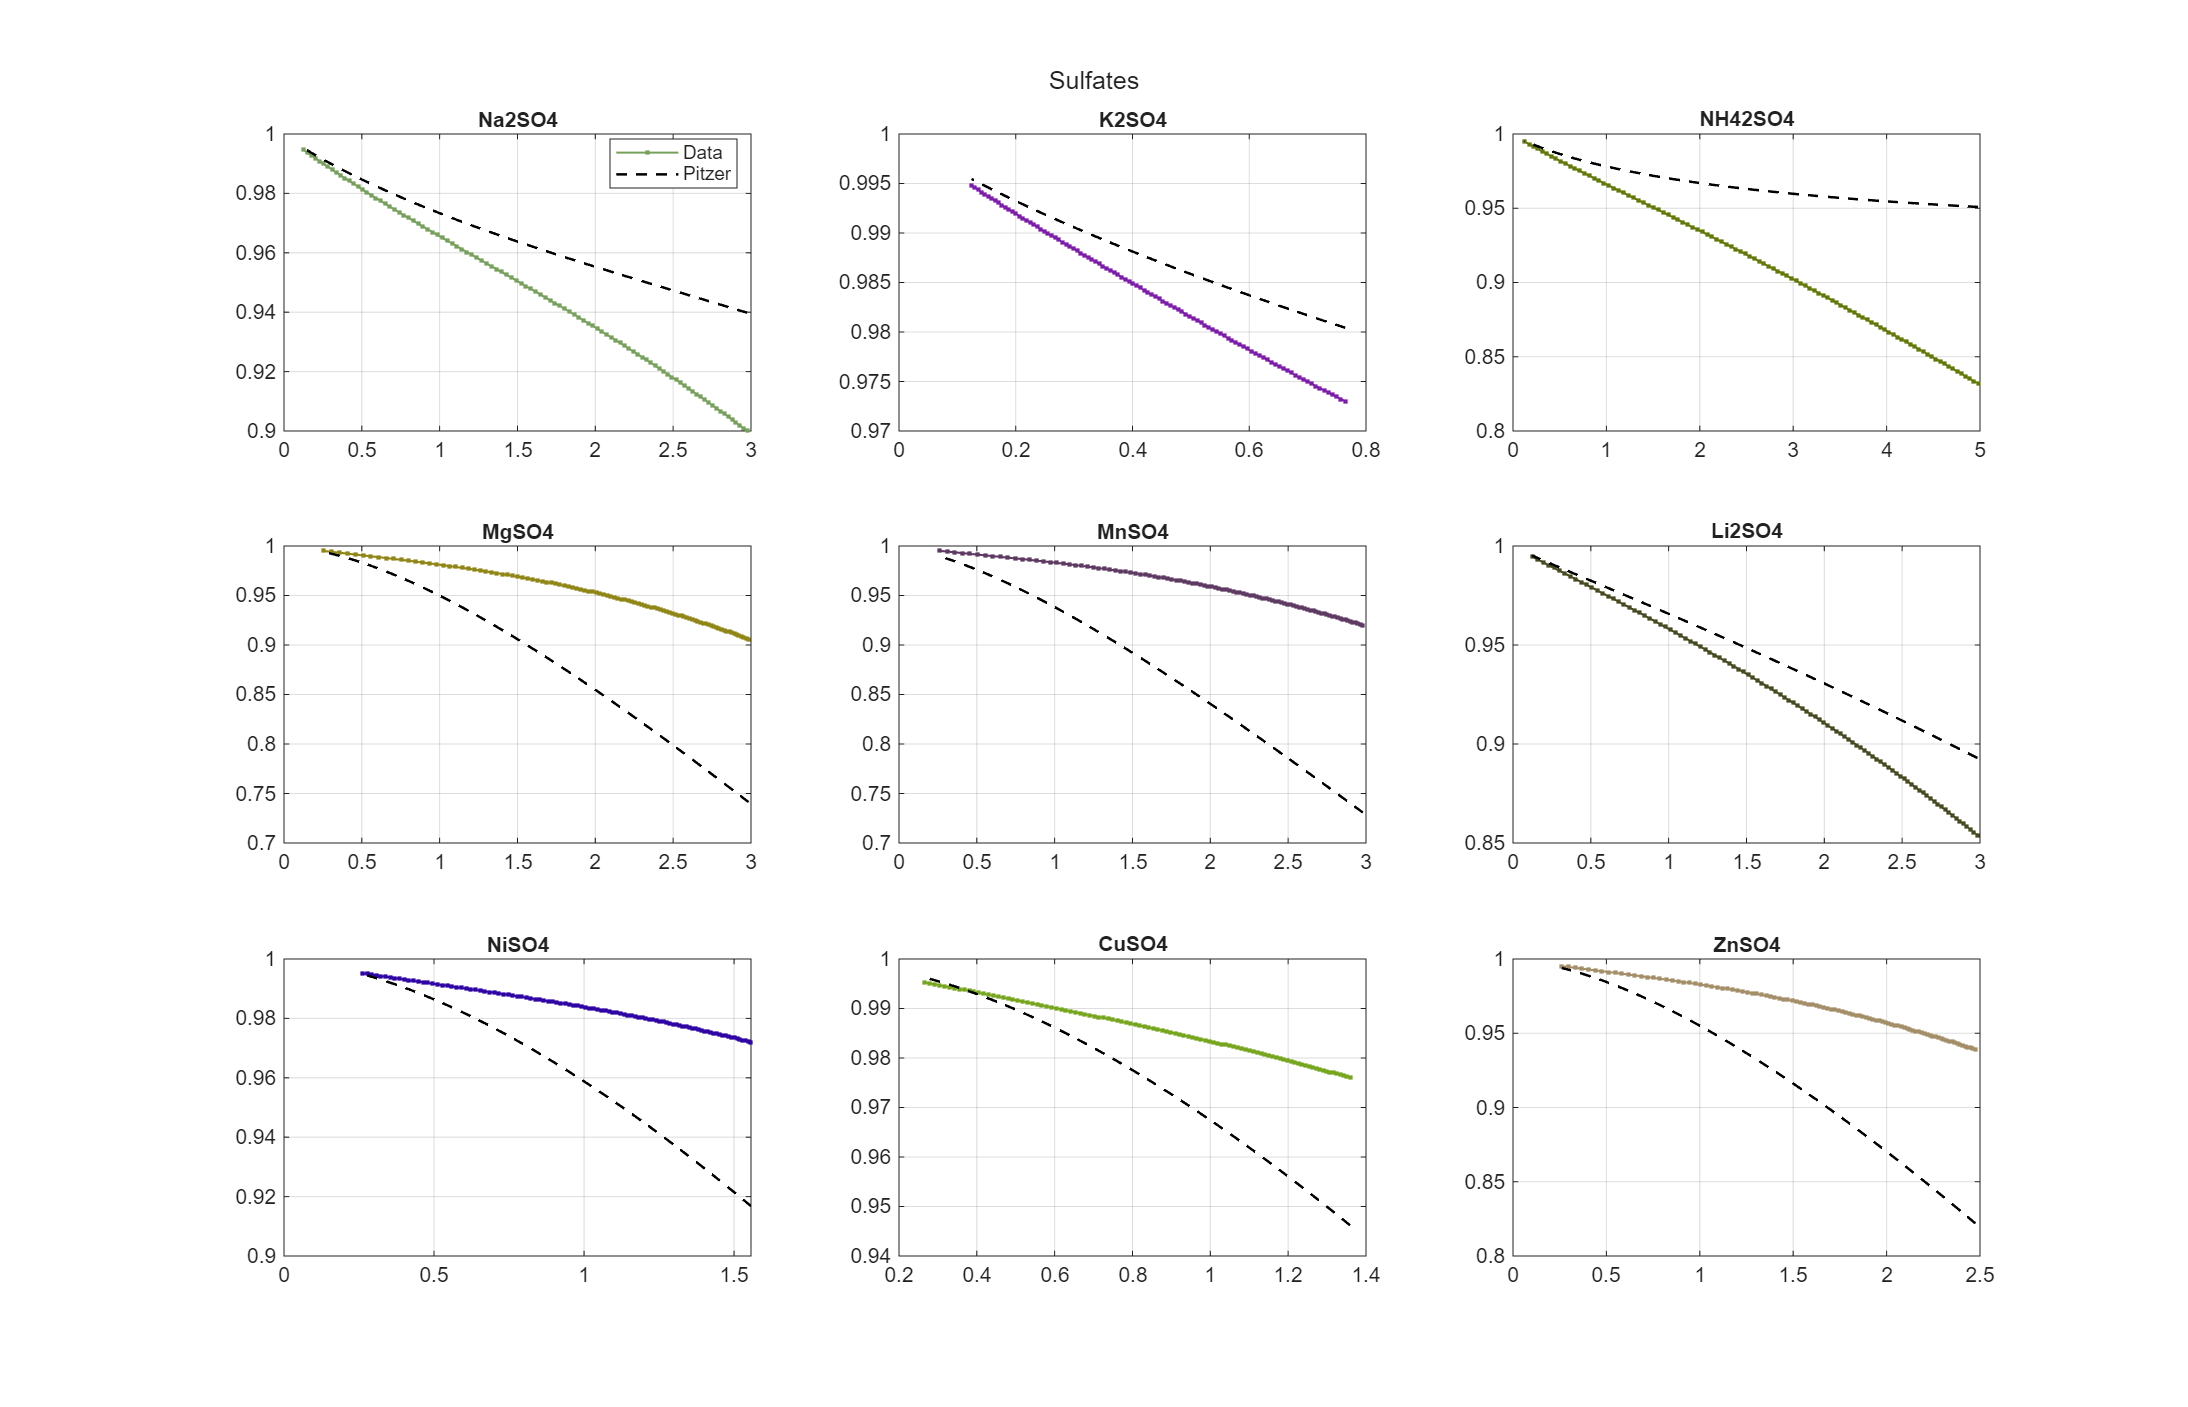
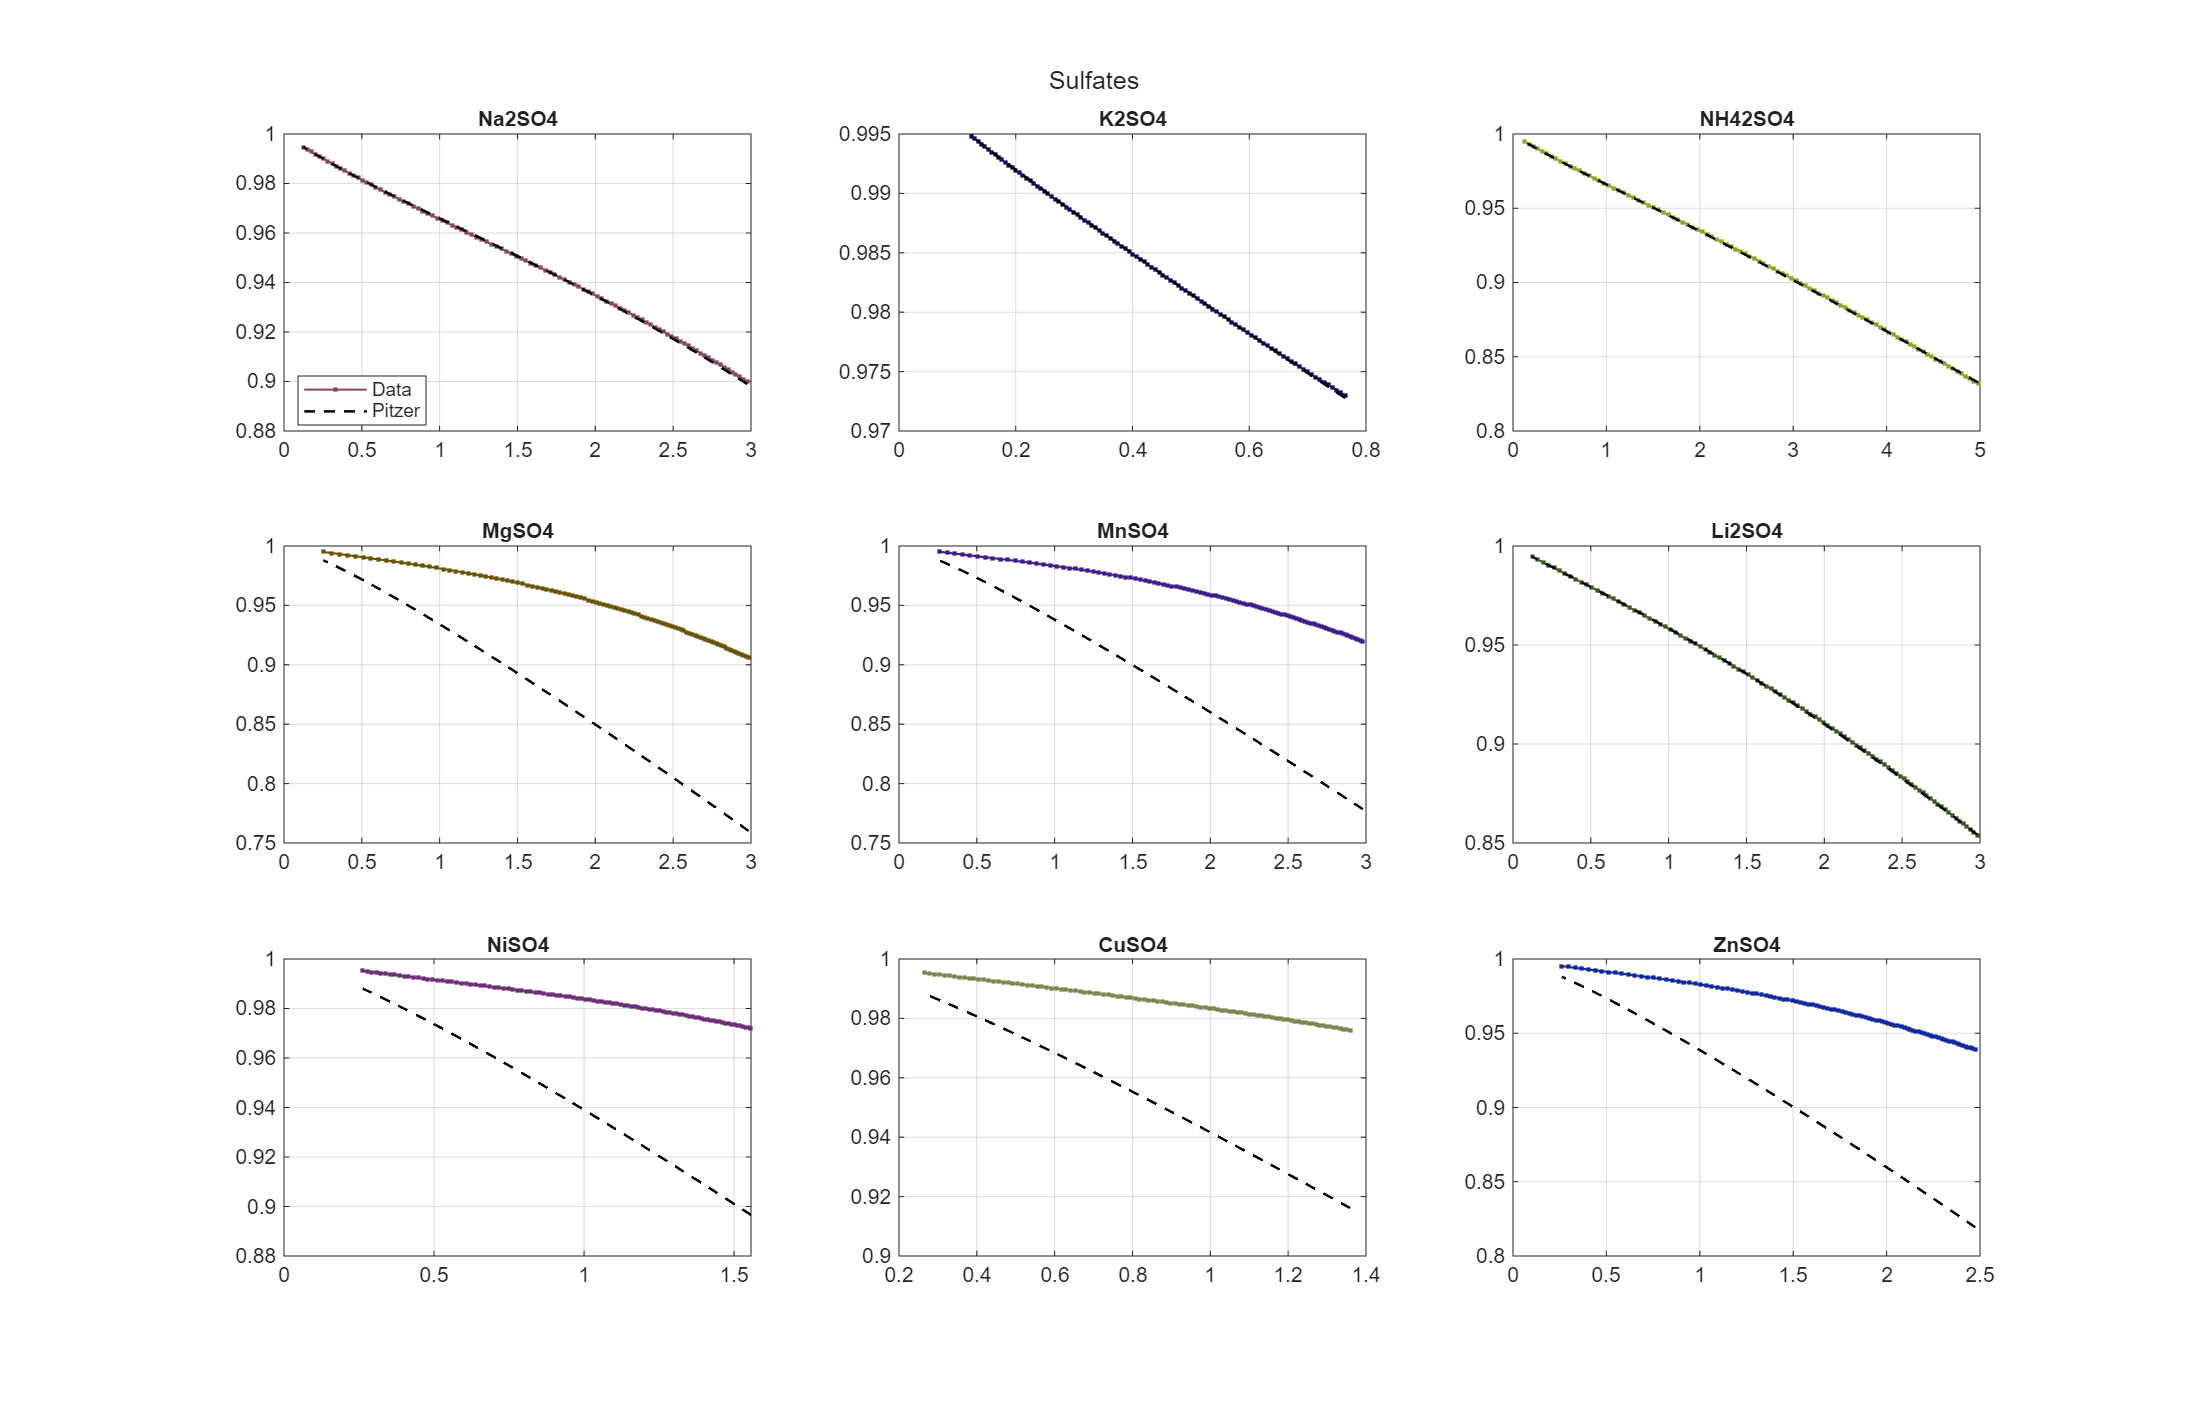
fix Pitzer plotting

diff --git a/pitzer/pitzer_water_activity.m b/pitzer/pitzer_water_activity.m
@@ -1,127 +1,213 @@
 function aw = pitzer_water_activity(m, nu, beta0, beta1, beta2, Cphi, alpha1, alpha2, T)
-% PITZER_WATER_ACTIVITY Calculate water activity using Pitzer model
-%
-% Inputs:
-%   m       - molality (mol salt/kg water)
-%   nu      - number of ions (2 for 1:1, 3 for 2:1, etc.)
-%   beta0   - Pitzer parameter beta0
-%   beta1   - Pitzer parameter beta1
-%   beta2   - Pitzer parameter beta2 (use 0 for 1:1 electrolytes)
-%   Cphi    - Pitzer parameter Cphi
-%   alpha1  - Pitzer parameter alpha1 (typically 2.0)
-%   alpha2  - Pitzer parameter alpha2 (typically 12.0 for 2:1, 0 for 1:1)
-%   T       - Temperature in Celsius
-%
-% Output:
-%   aw      - water activity
-%
-% Reference: Pitzer, K.S. (1973). "Thermodynamics of electrolytes. I. 
-%            Theoretical basis and general equations." 
-%            J. Phys. Chem., 77(2), 268-277.
-%
-% The Pitzer model relates water activity to the osmotic coefficient:
-%   ln(aw) = -phi * nu * m * Mw
-% where Mw = 0.018015 kg/mol (molecular weight of water)
+% PITZER_WATER_ACTIVITY Calculate water activity using corrected Pitzer model
+% Reference: Pitzer (1973), Eq. 13 for Osmotic Coefficient
 
-if nargin < 9
-    error('All 9 input arguments are required')
+    if nargin < 9, error('All 9 input arguments are required'); end
+
+    % --- 1. Constants & Pre-calculations ---
+    Mw = 0.018015; % kg/mol
+    b  = 1.2;      % Standard Pitzer parameter
+    
+    % Ionic Strength (I)
+    % Assuming simple single salt M(vM)X(vX)
+    % 1:1 salt (NaCl) -> I = m
+    % 2:1 salt (MgCl2)-> I = 3m
+    % We approximate I using your input 'nu':
+    if nu == 2      % 1:1
+        I = m;
+        vM = 1; vX = 1;
+        zM = 1; zX = 1;
+    elseif nu == 3  % 2:1 or 1:2
+        I = 3 * m;
+        vM = 1; vX = 2; % Assuming M X2 type generally
+        zM = 2; zX = 1;
+    else            % Fallback (approx)
+        I = 0.5 * nu * m; 
+        vM = 1; vX = 1; zM = 1; zX = 1; 
+    end
+
+    sqrt_I = sqrt(I);
+    A_phi = debye_huckel_parameter(T);
+
+    % --- 2. Debye-Huckel Term (Osmotic) ---
+    % CORRECTED: This is f_phi, NOT f_gamma. No log term.
+    term_DH = -A_phi * (sqrt_I / (1 + b * sqrt_I));
+    
+    % --- 3. Second Virial Coefficient (B_phi) ---
+    % Formula: Beta0 + Beta1 * exp(-alpha1 * sqrt(I)) ...
+    exp1 = exp(-alpha1 * sqrt_I);
+    B_phi = beta0 + beta1 * exp1;
+    
+    if abs(beta2) > 1e-9 || alpha2 > 1e-9
+        exp2 = exp(-alpha2 * sqrt_I);
+        B_phi = B_phi + beta2 * exp2;
+    end
+
+    % --- 4. Stoichiometric Multipliers ---
+    % The Pitzer equation for Phi is:
+    % Phi - 1 = |zM*zX| * f_phi 
+    %           + m * (2*vM*vX/nu) * B_phi 
+    %           + m^2 * (2*(vM*vX)^1.5/nu) * C_phi
+    
+    % Charge factor for DH term
+    z_factor = abs(zM * zX); 
+    
+    % Factor for B term: (2 * vM * vX) / nu
+    % 1:1 -> 2*1*1 / 2 = 1
+    % 2:1 -> 2*1*2 / 3 = 1.333
+    factor_B = (2 * vM * vX) / nu;
+    
+    % Factor for C term: (2 * (vM*vX)^1.5) / nu
+    % 1:1 -> 2 * 1 / 2 = 1
+    % 2:1 -> 2 * (2)^1.5 / 3 = 1.885
+    factor_C = (2 * (vM * vX)^1.5) / nu;
+
+    % --- 5. Calculate Osmotic Coefficient (Phi) ---
+    phi = 1 + z_factor * term_DH + m * factor_B * B_phi + m^2 * factor_C * Cphi;
+    
+    % --- 6. Calculate Water Activity ---
+    % ln(aw) = -phi * nu * m * Mw
+    ln_aw = -phi * nu * m * Mw;
+    aw = exp(ln_aw);
+    
+    % Physical Bounds
+    aw = max(0, min(1, aw));
 end
-
-% Constants
-Mw = 0.018015; % kg/mol - molecular weight of water
-T_K = T + 273.15; % Convert to Kelvin
-
-% Debye-Hückel limiting slope (Aphi)
-% Temperature-dependent formula (valid for water at different temperatures)
-% At 25°C, Aphi ≈ 0.392
-A_phi = debye_huckel_parameter(T);
-
-% Ionic strength
-I = 0.5 * nu * m; % For simple salts like MX or MX2
-
-% Calculate ionic charge product
-% For MX (1:1): z_M = 1, z_X = 1, |z_M*z_X| = 1
-% For MX2 (2:1): z_M = 2, z_X = 1, |z_M*z_X| = 2
-if nu == 2
-    z_product = 1; % 1:1 electrolyte
-elseif nu == 3
-    z_product = 2; % 2:1 or 1:2 electrolyte
-else
-    z_product = 1; % Default
-end
-
-% Calculate b parameter (typically 1.2 kg^0.5/mol^0.5)
-b = 1.2;
-
-% Calculate f(I) - Debye-Hückel term
-sqrt_I = sqrt(I);
-f_gamma = -A_phi * (sqrt_I / (1 + b * sqrt_I) + (2/b) * log(1 + b * sqrt_I));
-
-% Calculate B_phi and B'_phi
-% For 1:1 electrolytes (alpha2 = 0, beta2 = 0)
-% For 2:1 electrolytes (use both terms)
-
-if alpha2 == 0 % 1:1 electrolyte
-    g_alpha1 = 2 * (1 - (1 + alpha1 * sqrt_I) * exp(-alpha1 * sqrt_I)) / (alpha1^2 * I);
-    B_phi = beta0 + beta1 * g_alpha1;
-else % 2:1 electrolyte
-    g_alpha1 = 2 * (1 - (1 + alpha1 * sqrt_I) * exp(-alpha1 * sqrt_I)) / (alpha1^2 * I);
-    g_alpha2 = 2 * (1 - (1 + alpha2 * sqrt_I) * exp(-alpha2 * sqrt_I)) / (alpha2^2 * I);
-    B_phi = beta0 + beta1 * g_alpha1 + beta2 * g_alpha2;
-end
-
-% Calculate osmotic coefficient
-% phi = 1 + f_gamma + m * B_phi + m^2 * C_phi
-% For mixed electrolytes, additional terms would be needed
-
-phi = 1 + f_gamma + m * B_phi + m^2 * Cphi;
-
-% Handle negative or extremely small osmotic coefficients
-if phi < 0.01
-    phi = 0.01;
-    warning('Osmotic coefficient calculated as negative or very small. Setting to 0.01')
-end
-
-% Calculate water activity
-% ln(aw) = -phi * nu * m * Mw
-ln_aw = -phi * nu * m * Mw;
-aw = exp(ln_aw);
-
-% Ensure water activity is physical (between 0 and 1)
-if aw > 1
-    aw = 1;
-elseif aw < 0
-    aw = 0;
-end
-
-end
-
 
 function A_phi = debye_huckel_parameter(T)
-% Calculate Debye-Hückel parameter A_phi as a function of temperature
-% for water as solvent
-%
-% Input:
-%   T - Temperature in Celsius
-%
-% Output:
-%   A_phi - Debye-Hückel limiting slope
-%
-% Reference: Archer & Wang (1990) and Pitzer (1991)
-
-T_K = T + 273.15; % Convert to Kelvin
-
-% Simplified temperature-dependent formula
-% At 25°C (298.15 K): A_phi ≈ 0.392
-% At 0°C (273.15 K): A_phi ≈ 0.377
-% At 100°C (373.15 K): A_phi ≈ 0.465
-
-% Linear approximation (good for 0-100°C range)
-% More accurate formula would use density and dielectric constant of water
-T_ref = 298.15; % Reference temperature (25°C)
-A_phi_ref = 0.392; % Value at 25°C
-
-% Temperature dependence (simplified)
-A_phi = A_phi_ref * (1 + 0.0018 * (T_K - T_ref));
-
+    % A_phi approx at 25C is 0.392 (Pitzer 1973 used 0.392)
+    % Temperature dependence
+    T_K = T + 273.15;
+    T_ref = 298.15;
+    A_phi_ref = 0.3915; % Slightly more precise ref
+    A_phi = A_phi_ref * (1 + 0.0018 * (T_K - T_ref)); 
 end
+
+
+% function aw = pitzer_water_activity(m, nu, beta0, beta1, beta2, Cphi, alpha1, alpha2, T)
+% % PITZER_WATER_ACTIVITY Calculate water activity using Pitzer model
+% %
+% % Inputs:
+% %   m       - molality (mol salt/kg water)
+% %   nu      - number of ions (2 for 1:1, 3 for 2:1, etc.)
+% %   beta0   - Pitzer parameter beta0
+% %   beta1   - Pitzer parameter beta1
+% %   beta2   - Pitzer parameter beta2 (use 0 for 1:1 electrolytes)
+% %   Cphi    - Pitzer parameter Cphi
+% %   alpha1  - Pitzer parameter alpha1 (typically 2.0)
+% %   alpha2  - Pitzer parameter alpha2 (typically 12.0 for 2:1, 0 for 1:1)
+% %   T       - Temperature in Celsius
+% %
+% % Output:
+% %   aw      - water activity
+% %
+% % Reference: Pitzer, K.S. (1973). "Thermodynamics of electrolytes. I. 
+% %            Theoretical basis and general equations." 
+% %            J. Phys. Chem., 77(2), 268-277.
+% %
+% % The Pitzer model relates water activity to the osmotic coefficient:
+% %   ln(aw) = -phi * nu * m * Mw
+% % where Mw = 0.018015 kg/mol (molecular weight of water)
+% 
+% if nargin < 9
+%     error('All 9 input arguments are required')
+% end
+% 
+% % Constants
+% Mw = 0.018015; % kg/mol - molecular weight of water
+% T_K = T + 273.15; % Convert to Kelvin
+% 
+% % Debye-Hückel limiting slope (Aphi)
+% % Temperature-dependent formula (valid for water at different temperatures)
+% % At 25°C, Aphi ≈ 0.392
+% A_phi = debye_huckel_parameter(T);
+% 
+% % Ionic strength
+% I = 0.5 * nu * m; % For simple salts like MX or MX2
+% 
+% % Calculate ionic charge product
+% % For MX (1:1): z_M = 1, z_X = 1, |z_M*z_X| = 1
+% % For MX2 (2:1): z_M = 2, z_X = 1, |z_M*z_X| = 2
+% if nu == 2
+%     z_product = 1; % 1:1 electrolyte
+% elseif nu == 3
+%     z_product = 2; % 2:1 or 1:2 electrolyte
+% else
+%     z_product = 1; % Default
+% end
+% 
+% % Calculate b parameter (typically 1.2 kg^0.5/mol^0.5)
+% b = 1.2;
+% 
+% % Calculate f(I) - Debye-Hückel term
+% sqrt_I = sqrt(I);
+% f_gamma = -A_phi * (sqrt_I / (1 + b * sqrt_I) + (2/b) * log(1 + b * sqrt_I));
+% 
+% % Calculate B_phi and B'_phi
+% % For 1:1 electrolytes (alpha2 = 0, beta2 = 0)
+% % For 2:1 electrolytes (use both terms)
+% 
+% if alpha2 == 0 % 1:1 electrolyte
+%     g_alpha1 = 2 * (1 - (1 + alpha1 * sqrt_I) * exp(-alpha1 * sqrt_I)) / (alpha1^2 * I);
+%     B_phi = beta0 + beta1 * g_alpha1;
+% else % 2:1 electrolyte
+%     g_alpha1 = 2 * (1 - (1 + alpha1 * sqrt_I) * exp(-alpha1 * sqrt_I)) / (alpha1^2 * I);
+%     g_alpha2 = 2 * (1 - (1 + alpha2 * sqrt_I) * exp(-alpha2 * sqrt_I)) / (alpha2^2 * I);
+%     B_phi = beta0 + beta1 * g_alpha1 + beta2 * g_alpha2;
+% end
+% 
+% % Calculate osmotic coefficient
+% % phi = 1 + f_gamma + m * B_phi + m^2 * C_phi
+% % For mixed electrolytes, additional terms would be needed
+% 
+% phi = 1 + f_gamma + m * B_phi + m^2 * Cphi;
+% 
+% % Handle negative or extremely small osmotic coefficients
+% if phi < 0.01
+%     phi = 0.01;
+%     warning('Osmotic coefficient calculated as negative or very small. Setting to 0.01')
+% end
+% 
+% % Calculate water activity
+% % ln(aw) = -phi * nu * m * Mw
+% ln_aw = -phi * nu * m * Mw;
+% aw = exp(ln_aw);
+% 
+% % Ensure water activity is physical (between 0 and 1)
+% if aw > 1
+%     aw = 1;
+% elseif aw < 0
+%     aw = 0;
+% end
+% 
+% end
+% 
+% 
+% function A_phi = debye_huckel_parameter(T)
+% % Calculate Debye-Hückel parameter A_phi as a function of temperature
+% % for water as solvent
+% %
+% % Input:
+% %   T - Temperature in Celsius
+% %
+% % Output:
+% %   A_phi - Debye-Hückel limiting slope
+% %
+% % Reference: Archer & Wang (1990) and Pitzer (1991)
+% 
+% T_K = T + 273.15; % Convert to Kelvin
+% 
+% % Simplified temperature-dependent formula
+% % At 25°C (298.15 K): A_phi ≈ 0.392
+% % At 0°C (273.15 K): A_phi ≈ 0.377
+% % At 100°C (373.15 K): A_phi ≈ 0.465
+% 
+% % Linear approximation (good for 0-100°C range)
+% % More accurate formula would use density and dielectric constant of water
+% T_ref = 298.15; % Reference temperature (25°C)
+% A_phi_ref = 0.392; % Value at 25°C
+% 
+% % Temperature dependence (simplified)
+% A_phi = A_phi_ref * (1 + 0.0018 * (T_K - T_ref));
+% 
+% end
